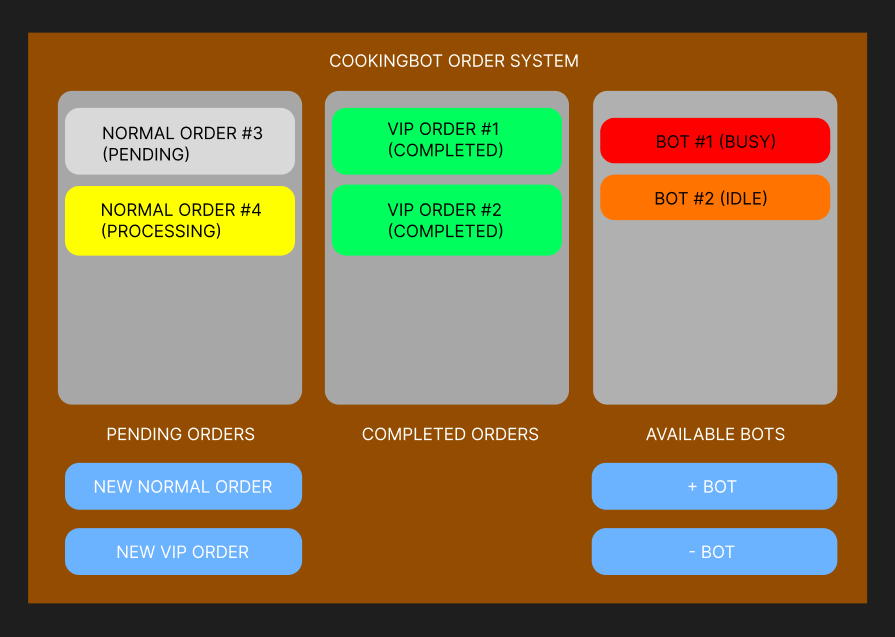
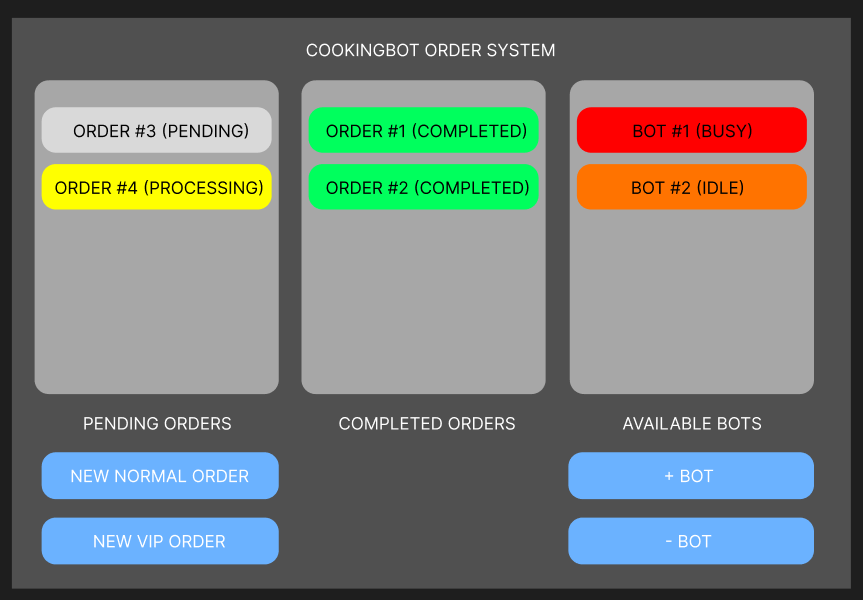
update documentation and assets

diff --git a/README.md b/README.md
@@ -1,38 +1,75 @@
-## FeedMe Software Engineer Take Home Assignment
-Below is a take home assignment before the interview of the position. You are required to
-1. Understand the situation and use case. You may contact the interviewer for further clarification.
-2. Fork this repo and implement the requirement with your most familiar tools.
-3. Complete the requirement and perform your own testing.
-4. Provide documentation for the any part that you think is needed.
-5. Commit into your own github and share your repo with the interviewer.
-6. Bring the source code and functioning prototype to the interview session.
+## CookingBot Order System
+<div style="display: flex; flex-wrap: wrap; gap: 6px; align-items: center;">
+  <img src="https://img.shields.io/badge/-HTML5-E34F26?logo=html5&logoColor=white&style=flat" />
+  <img src="https://img.shields.io/badge/-CSS3-1572B6?logo=css&logoColor=white&style=flat" />
+  <img src="https://img.shields.io/badge/-JavaScript-F7DF1E?logo=javascript&logoColor=black&style=flat" />
+</div>
 
-### Situation
-McDonald is transforming their business during COVID-19. They wish to build the automated cooking bots to reduce workforce and increase their efficiency. As one of the software engineer in the project. You task is to create an order controller which handle the order control flow. 
 
-### User Story
-As below is part of the user story:
-1. As McDonald's normal customer, after I submitted my order, I wish to see my order flow into "PENDING" area. After the cooking bot process my order, I want to see it flow into to "COMPLETE" area.
-2. As McDonald's VIP member, after I submitted my order, I want my order being process first before all order by normal customer.  However if there's existing order from VIP member, my order should queue behind his/her order.
-3. As McDonald's manager, I want to increase or decrease number of cooking bot available in my restaurant. When I increase a bot, it should immediately process any pending order. When I decrease a bot, the processing order should remain un-process.
-4. As McDonald bot, it can only pickup and process 1 order at a time, each order required 10 seconds to complete process.
+### Features
+- Add New Normal Order
+- Add New VIP Order
+- Add Cooking Bot
+- Remove Cooking Bot
+<br/>
 
-### Requirements
-1. When "New Normal Order" clicked, a new order should show up "PENDING" Area.
-2. When "New VIP Order" clicked, a new order should show up in "PENDING" Area. It should place in-front of all existing "Normal" order but behind of all existing "VIP" order.
-3. The order number should be unique and increasing.
-4. When "+ Bot" clicked, a bot should be created and start processing the order inside "PENDING" area. after 10 seconds picking up the order, the order should move to "COMPLETE" area. Then the bot should start processing another order if there is any left in "PENDING" area.
-5. If there is no more order in the "PENDING" area, the bot should become IDLE until a new order come in.
-6. When "- Bot" clicked, the newest bot should be destroyed. If the bot is processing an order, it should also stop the process. The order now back to "PENDING" and ready to process by other bot.
-7. No data persistance is needed for this prototype, you may perform all the process inside memory.
+### Navigation and Guide
+<img src="./asset/navigation_and_guide.png" width="600"/>  
 
-### Functioning Prototype
-You may demostrate your final funtioning prototype with **one and only one** of the following method:
-- CLI application
-- UI application
-- E2E test case
+1. This is the area that shows all pending and processing orders. 
+2. This is the area that shows all pending and completed orders.
+3. This is the area that shows all available bots.
+4. This button will add a new normal order to the processing orders area.
+5. This button will add a new vip order to the processing orders area.
+6. This button will add a new bot.
+7. This button will remove an existing bot.
 
-### Tips on completing this task
-- Testing, testing and testing. Make sure the prototype is functioning and meeting all the requirements.
-- Do not over engineering. Try to scope your working hour within 3 hours (1 hour per day). You may document all the optimization or technology concern that you think good to bring in the solution.
-- Complete the implementation as clean as possible, clean code is a strong plus point, do not bring in all the fancy tech stuff.
+<br/>
+ 
+
+### Diagrams and Screenshots
+
+**Class Diagram (draw.io)**  
+<br/>
+<img src="./asset/class_diagram.png" width="600"/>  
+*The relationship between orders, bots, and system*
+[View Class Diagram on draw.io](https://drive.google.com/file/d/12zSYeIzdkkMp3QczAnlS6P3vISCX_QhL/view?usp=drive_link)
+
+<br/>
+
+**UI Design (Figma)**  
+<br/>
+<img src="./asset/ui_design.png" width="600"/>  
+*This is the initial UI mockup*
+[View UI Design on Figma](https://www.figma.com/design/nme8PYrXDRU8C6xlA7H4EL/FeedMe?node-id=0-1&t=zVPh4efur1SM4amj-1)
+
+---
+
+### Future improvements
+1) A button to clear all available bots instead of deleting them 1 by 1
+   - Reason: when there are too many available bots, and the manager want to clear all of them, he/she had no choice but to keep spamming the '- bot' button
+   - Approach: call destroy() for each of the available bots
+
+2) A button to clear all completed orders
+   - Reason: the completed order will keep stacking as there are more and more orders coming in, have to scroll through all of the records to get the information of the recently added records
+   - Approach: filter out all completed orders
+
+3) A button to allow/disallow orders to come in
+   - Reason: when the store is closed, it should not take in any orders
+   - Approach: hide or disable the new order buttons
+
+4) A button to clear the selected pending order
+   - Reason: the customer might clicked on the add order accidentally but there is no remove order function
+   - Approach: get the index of the selected order by passing in the orderid and remove the order
+
+5) A button to move the order to top
+   - Reason: when the normal customer do not have patience to wait until all of the vip orders to be done, the button can push the normal customer's order to top
+   - Approach: get the index of the selected order by passing in the orderid and move the order to top
+
+6) Add the completed datetime for the order
+   - Reason: the manager do not have record on when is the order getting complete
+   - Approach: pass in the completed datetime when the order is completed
+
+7) Integrate authentication and authorization
+   - Reason: the customers (both vip and customer) should not allowed to add/delete bot and can only add orders (based on customer type)
+   - Approach: add auth for vip customer, normal customer and manager using json web token

diff --git a/TASK.md b/TASK.md
@@ -1,0 +1,38 @@
+## FeedMe Software Engineer Take Home Assignment
+Below is a take home assignment before the interview of the position. You are required to
+1. Understand the situation and use case. You may contact the interviewer for further clarification.
+2. Fork this repo and implement the requirement with your most familiar tools.
+3. Complete the requirement and perform your own testing.
+4. Provide documentation for the any part that you think is needed.
+5. Commit into your own github and share your repo with the interviewer.
+6. Bring the source code and functioning prototype to the interview session.
+
+### Situation
+McDonald is transforming their business during COVID-19. They wish to build the automated cooking bots to reduce workforce and increase their efficiency. As one of the software engineer in the project. You task is to create an order controller which handle the order control flow. 
+
+### User Story
+As below is part of the user story:
+1. As McDonald's normal customer, after I submitted my order, I wish to see my order flow into "PENDING" area. After the cooking bot process my order, I want to see it flow into to "COMPLETE" area.
+2. As McDonald's VIP member, after I submitted my order, I want my order being process first before all order by normal customer.  However if there's existing order from VIP member, my order should queue behind his/her order.
+3. As McDonald's manager, I want to increase or decrease number of cooking bot available in my restaurant. When I increase a bot, it should immediately process any pending order. When I decrease a bot, the processing order should remain un-process.
+4. As McDonald bot, it can only pickup and process 1 order at a time, each order required 10 seconds to complete process.
+
+### Requirements
+1. When "New Normal Order" clicked, a new order should show up "PENDING" Area.
+2. When "New VIP Order" clicked, a new order should show up in "PENDING" Area. It should place in-front of all existing "Normal" order but behind of all existing "VIP" order.
+3. The order number should be unique and increasing.
+4. When "+ Bot" clicked, a bot should be created and start processing the order inside "PENDING" area. after 10 seconds picking up the order, the order should move to "COMPLETE" area. Then the bot should start processing another order if there is any left in "PENDING" area.
+5. If there is no more order in the "PENDING" area, the bot should become IDLE until a new order come in.
+6. When "- Bot" clicked, the newest bot should be destroyed. If the bot is processing an order, it should also stop the process. The order now back to "PENDING" and ready to process by other bot.
+7. No data persistance is needed for this prototype, you may perform all the process inside memory.
+
+### Functioning Prototype
+You may demostrate your final funtioning prototype with **one and only one** of the following method:
+- CLI application
+- UI application
+- E2E test case
+
+### Tips on completing this task
+- Testing, testing and testing. Make sure the prototype is functioning and meeting all the requirements.
+- Do not over engineering. Try to scope your working hour within 3 hours (1 hour per day). You may document all the optimization or technology concern that you think good to bring in the solution.
+- Complete the implementation as clean as possible, clean code is a strong plus point, do not bring in all the fancy tech stuff.
